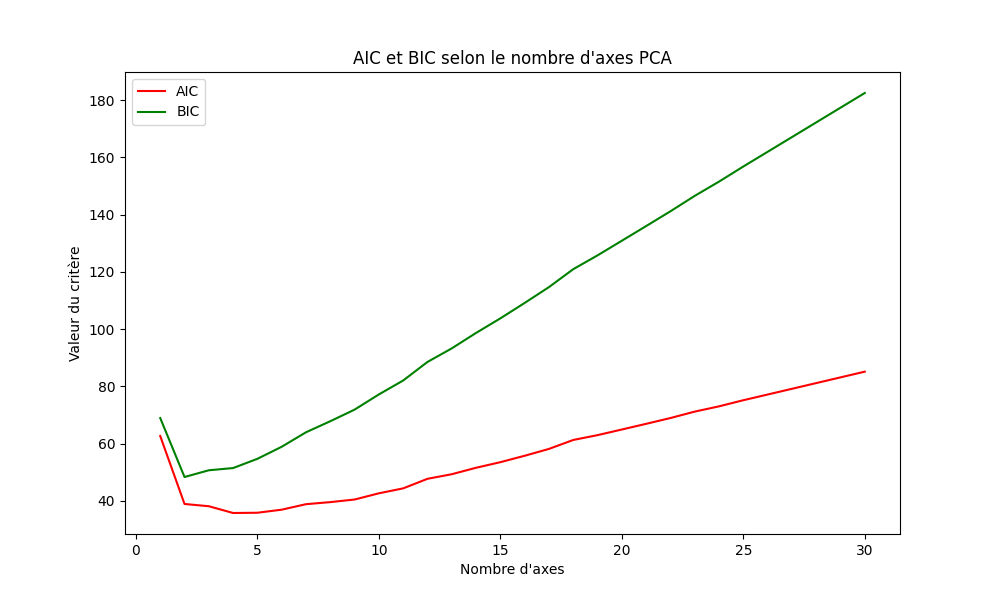
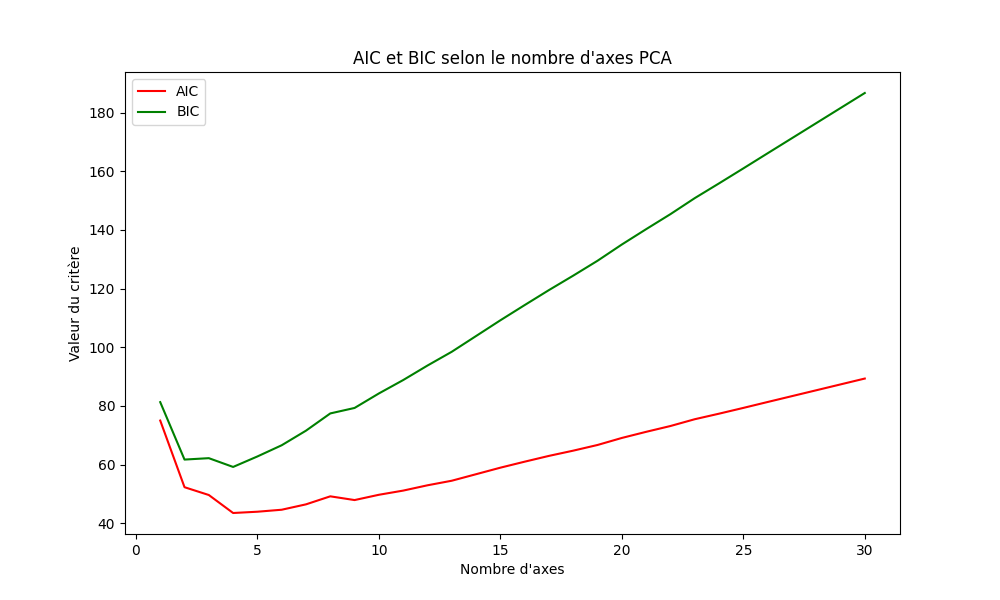
threshold sur logistique

diff --git a/Projet_Data/Code_Modeles_Val.py b/Projet_Data/Code_Modeles_Val.py
@@ -9,6 +9,9 @@ from sklearn.discriminant_analysis import LinearDiscriminantAnalysis, QuadraticD
 from sklearn.metrics import confusion_matrix, classification_report, accuracy_score
 from sklearn.metrics import roc_curve, auc, roc_auc_score
 
+#On choisit un random_state qu'on pourra changer facilement afin de voir si les résultats changent
+rand_st=45
+
 #Importer les données dans un format exploitable
 data = pd.read_csv("wdbc.data",header=None)
 #print(data.describe()) #On remarque qu'il n'y a pas les noms des colonnes, ajout de header=none
@@ -107,7 +110,6 @@ plt.xlabel("PC1")
 plt.ylabel("PC2")
 plt.legend()
 plt.tight_layout()
-plt.title("Projection des patients sur le plan des deux premiers axes PCA")
 plt.savefig("Projection des patients sur le plan des deux premiers axes PCA.png")
 plt.show()
 
@@ -161,16 +163,11 @@ plt.gca().add_artist(plt.Circle((0,0),1,color='blue',fill=False))
 plt.savefig('Correlation Circle Plot axe 2&3.png')
 plt.show()
 
-#LDA et QDA
-
-lda = LinearDiscriminantAnalysis()
-lda.fit(data_sans_id.drop('Diagnostique', axis = 1), data_sans_id.Diagnostique)
-
 #Analyse et comparaison des modèles
 y = data_sans_id["Diagnostique"]
 X = data_sans_id.drop("Diagnostique",axis=1)
 X_sd = StandardScaler().fit_transform(X)
-X_train, X_test, y_train, y_test = train_test_split(X_sd, y, test_size=0.3, random_state=42, stratify=y,shuffle=True) #stratify par y pour garder environ 37% de positifs (https://stackoverflow.com/questions/34842405/parameter-stratify-from-method-train-test-split-scikit-learn)
+X_train, X_test, y_train, y_test = train_test_split(X_sd, y, test_size=0.3, random_state=rand_st, stratify=y,shuffle=True) #stratify par y pour garder environ 37% de positifs (https://stackoverflow.com/questions/34842405/parameter-stratify-from-method-train-test-split-scikit-learn)
 
 # Fonction pour évaluer les modèles, framework robuste selon le modele utilisé
 def evaluation_modele(model, X_train, X_test, y_train, y_test):
@@ -206,7 +203,7 @@ results['QDA'] = evaluation_modele(qda,X_train, X_test, y_train, y_test)
 #Logistique
 from sklearn.linear_model import LogisticRegression
 
-logit = LogisticRegression(max_iter=2000, random_state=42)
+logit = LogisticRegression(max_iter=2000, random_state=rand_st, class_weight='balanced')
 logit.fit(X_train, y_train)
 results['Logistic Regression'] = evaluation_modele(
     logit, X_train, X_test, y_train, y_test
@@ -217,7 +214,7 @@ from sklearn.neighbors import KNeighborsClassifier
 
 param_grid_knn = {'n_neighbors': [3, 5, 7, 9, 11, 13, 15, 20, 25]}
 knn_base = KNeighborsClassifier()
-knn_grid = GridSearchCV(knn_base, param_grid_knn, cv=5, scoring='accuracy', n_jobs=-1, verbose=1)
+knn_grid = GridSearchCV(knn_base, param_grid_knn, cv=5, scoring='recall', n_jobs=-1, verbose=1)
 knn_grid.fit(X_train, y_train)
 print("Meilleur k: "+ str(knn_grid.best_params_['n_neighbors']))
 print("Score validation croisée: " + str(knn_grid.best_score_))
@@ -227,8 +224,8 @@ results['KNN'] = evaluation_modele(knn_grid.best_estimator_,X_train, X_test, y_t
 from sklearn.ensemble import RandomForestClassifier
 
 param_grid_rf = {'n_estimators': [50, 100, 200],'max_depth': [5, 10, 15, None],'min_samples_split': [2, 5, 10]}
-rf_base = RandomForestClassifier(random_state=42)
-rf_grid = GridSearchCV(rf_base, param_grid_rf, cv=5, scoring='accuracy',n_jobs=-1, verbose=1)
+rf_base = RandomForestClassifier(random_state=rand_st, class_weight='balanced')
+rf_grid = GridSearchCV(rf_base, param_grid_rf, cv=5, scoring='recall',n_jobs=-1, verbose=1)
 rf_grid.fit(X_train, y_train)
 print("Meilleur k: "+ str(rf_grid.best_params_))
 print("Score validation croisée: " + str(rf_grid.best_score_))
@@ -298,7 +295,7 @@ plt.show()
 # Test de la Régression Logistique sur un nombre n variable d'axes de la PCA
 
 X_pca = pca.transform(X_sd)
-X_train, X_test, y_train, y_test = train_test_split(X_pca, y, test_size=0.3, random_state=42, stratify=y)
+X_train, X_test, y_train, y_test = train_test_split(X_pca, y, test_size=0.3, random_state=rand_st, stratify=y)
 
 
 nb_components = X_pca.shape[1] #Nombre
@@ -315,7 +312,7 @@ for n_components in range_compon:
     X_train_pca = X_train[:, :n_components] #Garder les n premieres composantes
     X_test_pca = X_test[:, :n_components] #Idem
 
-    logit = LogisticRegression(max_iter=2000, random_state=42)
+    logit = LogisticRegression(max_iter=2000, random_state=rand_st,class_weight='balanced')
     logit.fit(X_train_pca, y_train)
     
     y_pred_proba = logit.predict_proba(X_test_pca)[:,1] #Proba de classe 1
@@ -351,16 +348,33 @@ plt.show()
 
 # Évaluation du modèle Logistique sur 5 axes PCA. Ce n'est pas le meilleur pour le random_state=42 mais après avoir d'autres random_states, la valeur n=5 revient plus souvent pour le min de l'AIC et BIC.
 
-X_train_pca4 = X_train[:, :5] # Sélection des 5 premières composantes
-X_test_pca4 = X_test[:, :5] #idem
+X_train_pca5 = X_train[:, :5] # Sélection des 5 premières composantes
+X_test_pca5 = X_test[:, :5] #idem
 
-logit_pca4 = LogisticRegression(max_iter=2000, random_state=42)
-logit_pca4.fit(X_train_pca4, y_train)
+logit_pca4 = LogisticRegression(max_iter=2000, random_state=rand_st,class_weight='balanced')
+logit_pca4.fit(X_train_pca5, y_train)
 
-res_logit_pca4 = evaluation_modele(logit_pca4, X_train_pca4, X_test_pca4, y_train, y_test)
+from sklearn.metrics import recall_score, precision_score
+
+# threshold qui fait en sorte d'avoir 0 faux négatifs.
+y_proba = logit_pca4.predict_proba(X_test_pca5)[:, 1]
+threshold = 0.3
+y_pred_thr = (y_proba >= threshold).astype(int)
+
+cm = confusion_matrix(y_test, y_pred_thr)
+recall = recall_score(y_test, y_pred_thr)
+precision = precision_score(y_test, y_pred_thr)
+specificity = recall_score(y_test, y_pred_thr, pos_label=0)
+
+
+print("Matrice de confusion avec t="+str(threshold)+": ", cm)
+
+
+res_logit_pca4 = evaluation_modele(logit_pca4, X_train_pca5, X_test_pca5, y_train, y_test)
+
 
 # AUC & courbe ROC
-y_pred_proba_pca4 = logit_pca4.predict_proba(X_test_pca4)[:, 1]
+y_pred_proba_pca4 = logit_pca4.predict_proba(X_test_pca5)[:, 1]
 auc_pca4 = roc_auc_score(y_test, y_pred_proba_pca4)
 print("AUC pour n=5 axes : "+ str(np.round(auc_pca4,3)))
 
